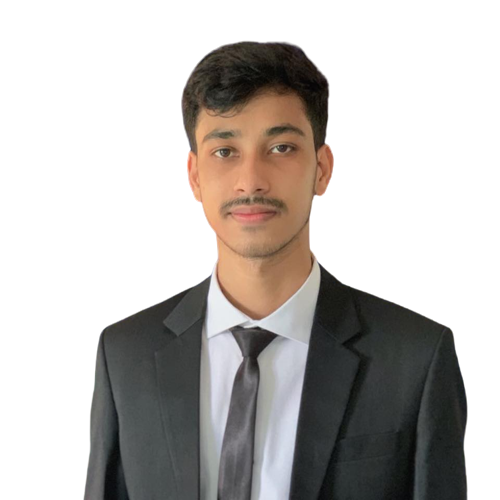
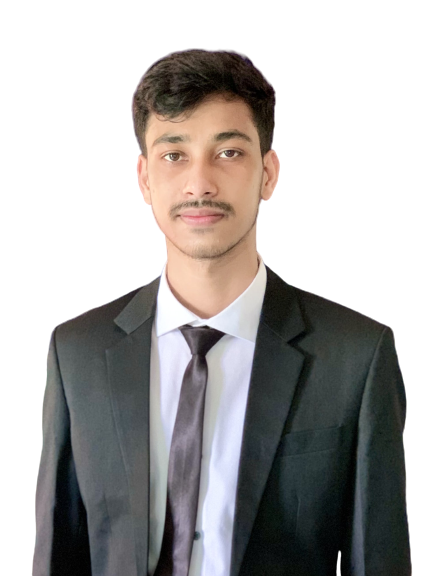
about component done

diff --git a/index.html b/index.html
@@ -36,7 +36,7 @@
             <a class="nav-link ps-4 pe-4" href="#scrollspyHeading2">ABOUT</a>
           </li>
           <li class="nav-item">
-            <a class="nav-link ps-4 pe-4" href="#scrollspyHeading3">SERVICE</a>
+            <a class="nav-link ps-4 pe-4" href="#scrollspyHeading3">SKILLS</a>
           </li>
           <li class="nav-item">
             <a class="nav-link ps-4 pe-4" href="#scrollspyHeading4">PROJECT</a>
@@ -54,8 +54,8 @@
     <!-- Home Component -->
     <div id="scrollspyHeading1" class="container pt-5">
       <div class="row justify-content-center align-items-center">
-        <div class="col-lg-5">
-          <div class="mt-sm-5">
+        <div class="col-lg-5 col-md-6">
+          <div class="mt-sm-5 pb-5">
             <p class="fw-bold text-secondary">Hello,</p>
             <h1 class="fw-bold color1">I am Sayeful Islam</h1>
             <p class="text-secondary">Full-stack JavaScript developer <br> @ Software Engineer</p>
@@ -64,21 +64,74 @@
             </button>
           </div>
         </div>
-        <div class="col-lg-5 mt-4 text-sm-center">
+        <div class="col-lg-5 col-md-6 mt-4 d-none d-sm-grid">
           <img src="./images/profile-removebg.png" class="img-fluid" alt="Profile Pic">
         </div>
       </div>
     </div>
     <!-- About Component -->
     <div id="scrollspyHeading2" class="bgColor1 pt-5 pb-5">
-      <div class="container pt-lg-5 pb-lg-5">
-        <h2 class="text-center fw-bold text-dark-emphasis ps-lg-5">About Me</h2>
-        
+      <div class="container pt-lg-4 pb-lg-5">
+        <h2 class="text-center fw-bold text-secondary">About Me</h2>
+        <div class="row mt-5 justify-content-center align-items-center">
+          <div class="col-lg-5 text-center">
+            <img src="./images/profile-removebg.png" class="img-fluid imgBorder" width="300px" alt="Profile Pic">
+          </div>
+          <div class="col-lg-6 mt-4">
+            <div class="text-secondary">
+              <h5>Hello I am Sayeful Islam, I am a Full-stack JavaScript Web developer from Dhaka, Bangladesh.</h5>
+              <p class="mt-3">I'm a dedicated and passionate software engineer with a relentless curiosity for solving complex problems. My journey in
+              the world of coding began years ago, and since then, I've been on a mission to create innovative solutions that make a
+              difference.</p>
+              <table>
+                <tbody>
+                  <tr>
+                    <th scope="row" class="pe-5 pt-2 pb-2">Name</th>
+                    <td class="ps-lg-5">Md Sayeful Islam</td>
+                  </tr>
+                  <tr>
+                    <th scope="row" class="pe-5 pt-2 pb-2">Email</th>
+                    <td class="ps-lg-5">mirsayeful367@gmail.com</td>
+                  </tr>
+                  <tr>
+                    <th scope="row" class="pe-5 pt-2 pb-2">Phone</th>
+                    <td class="ps-lg-5">+8801728354098</td>
+                  </tr>
+                  <tr>
+                    <th scope="row" class="pe-5 pt-2 pb-2">Graduate</th>
+                    <td class="ps-lg-5">Lovely Professional University, India</td>
+                  </tr>
+                  <tr>
+                    <th scope="row" class="pe-5 pt-2 pb-2">Programme</th>
+                    <td class="ps-lg-5">Bachelor of Computer Application</td>
+                  </tr>
+                  <tr>
+                    <th scope="row" class="pe-5 pt-2 pb-2">Nationality</th>
+                    <td class="ps-lg-5">Bangladesh</td>
+                  </tr>
+                  <tr>
+                    <th scope="row" class="pe-5 pt-2 pb-2">Address</th>
+                    <td class="ps-lg-5">DIT, Badda, Dhaka</td>
+                  </tr>
+                </tbody>
+              </table>
+              <div>
+                <button class="customBtn mt-4 me-3">
+                  <a href="#">HIRE ME</a>
+                </button>
+                <button type="button"
+                  class="btn btn-light btn-sm rounded-5 fw-bold border border-2 border-secondary text-dark-emphasis">
+                  DOWNLOAD CV
+                </button>
+              </div>
+            </div>
+          </div>
+        </div>
       </div>
     </div>
     
     <div id="scrollspyHeading3">
-      <h4 class="mt-5 mb-5 pt-5 pb-5">Third heading</h4>
+      <h4 class="mt-5 mb-5 pt-5 pb-5">Skills</h4>
       <p class="mt-5 mb-5 pt-5 pb-5">...</p>
     </div>
 

diff --git a/css/main.css b/css/main.css
@@ -31,6 +31,12 @@
   text-decoration: none;
 }
 
+.imgBorder {
+  background-color: white;
+  border-left: 10px solid var(--orange);
+  border-bottom: 10px solid var(--orange);
+}
+
 
 /* Scroll Indicator */
 .header {
